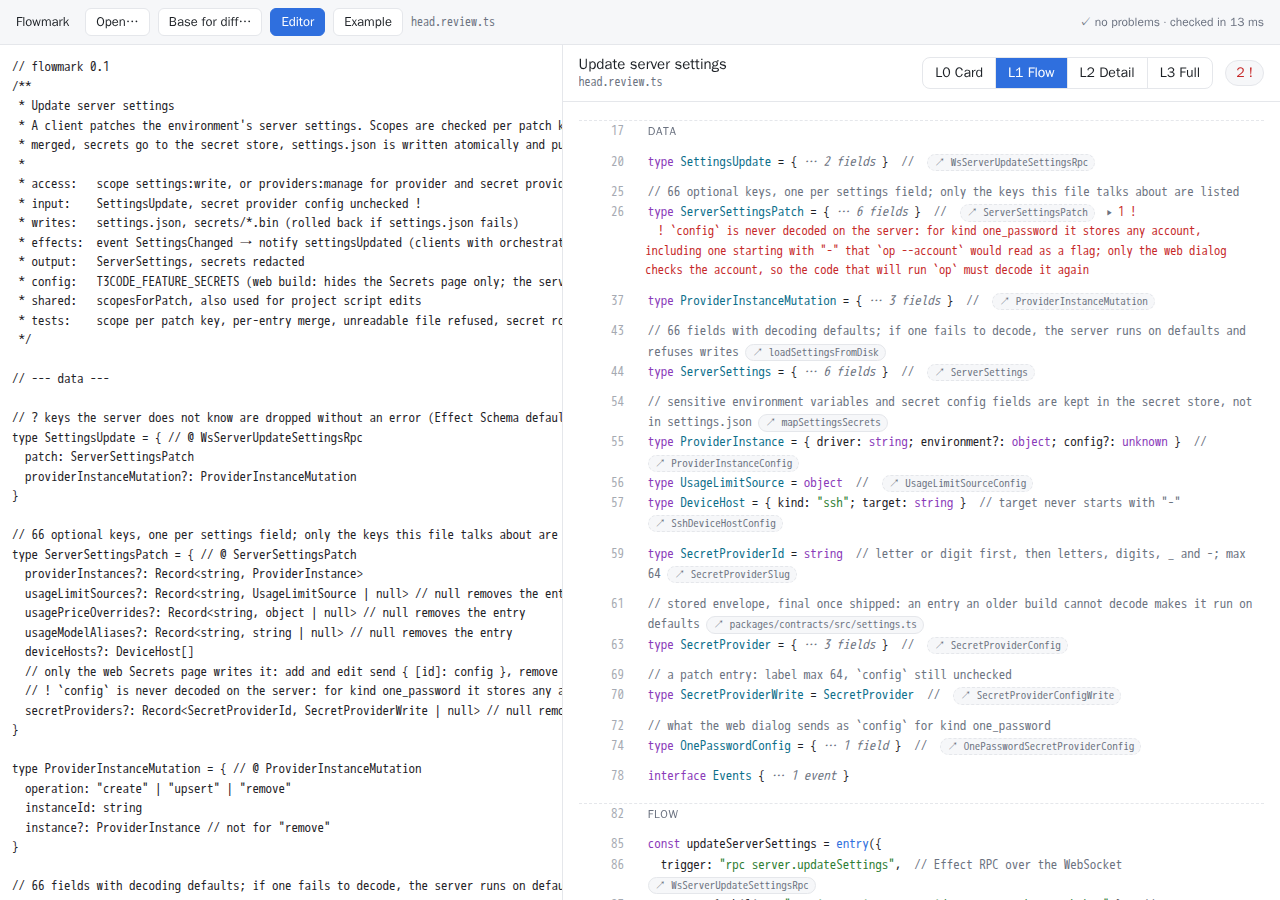
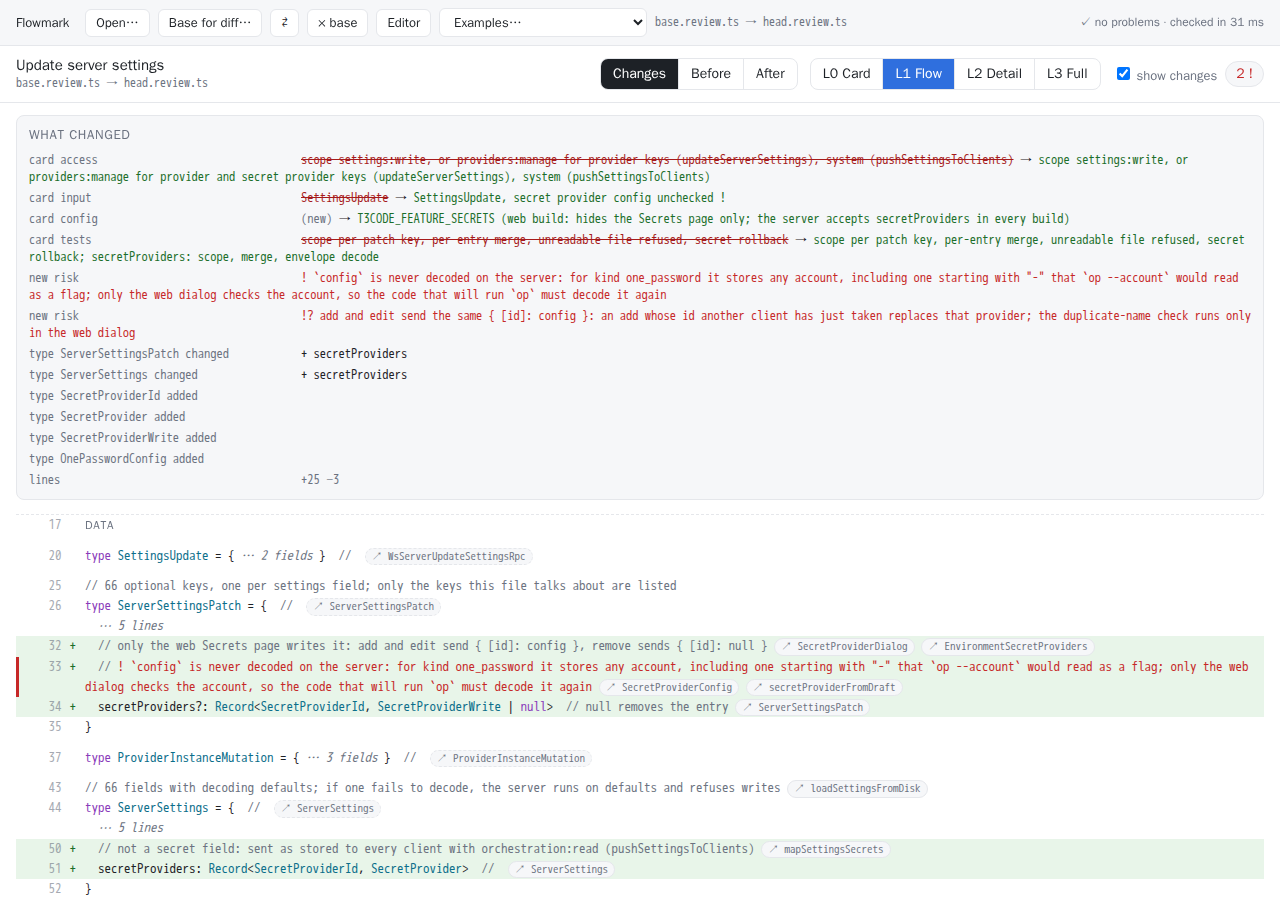
Diff pages switch between Changes, Before and After; web app examples menu
- view model: a diff carries both files on their own (`sides`)
- viewer: Changes | Before | After in the header (keys d, b, a); the
  level is kept when switching
- web app: an Examples menu (spec example, t3code PR #25709 as a diff);
  build copies the examples into web/dist
- README and screenshots updated

diff --git a/viewer/viewer.js b/viewer/viewer.js
@@ -34,10 +34,19 @@
   class Viewer {
     constructor(root, model, opts) {
       this.root = root;
-      this.m = model;
-      this.diff = !!model.changes;
+      // A diff model carries both files ("sides"): the viewer can switch between the three views.
+      this.bundle = model.sides ? model : null;
+      this.mode = "changes";
       const fromHash = /^#L([0-3])$/.exec(global.location ? global.location.hash : "");
       this.level = fromHash ? Number(fromHash[1]) : opts.level ?? 1;
+      this.load(model);
+      this.onKey = (e) => this.key(e);
+      document.addEventListener("keydown", this.onKey);
+    }
+
+    load(model) {
+      this.m = model;
+      this.diff = !!model.changes;
       this.expanded = new Set();
       this.inline = new Set();
       this.showChanges = this.diff;
@@ -54,8 +63,14 @@
         for (let i = b.first_row; i <= b.last_row; i++) if (model.rows[i].change && model.rows[i].kind !== "blank") n++;
         return n;
       });
-      this.onKey = (e) => this.key(e);
-      document.addEventListener("keydown", this.onKey);
+    }
+
+    /// "changes" (the diff), "before" (base file) or "after" (head file).
+    setMode(mode) {
+      if (!this.bundle || mode === this.mode) return;
+      this.mode = mode;
+      this.load(mode === "changes" ? this.bundle : mode === "before" ? this.bundle.sides.base : this.bundle.sides.head);
+      this.render();
     }
 
     destroy() {
@@ -69,6 +84,8 @@
       else if (e.key === "c" && this.diff) {
         this.showChanges = !this.showChanges;
         this.render();
+      } else if (this.bundle && (e.key === "d" || e.key === "b" || e.key === "a")) {
+        this.setMode({ d: "changes", b: "before", a: "after" }[e.key]);
       } else if (e.key === "Escape") {
         this.expanded.clear();
         this.inline.clear();
@@ -157,6 +174,22 @@
           h("strong", {}, m.title || m.file),
           h("span", { class: "fm-file" }, m.base_file ? `${m.base_file} → ${m.file}` : m.file),
         ),
+        this.bundle &&
+          h(
+            "nav",
+            { class: "fm-levels fm-modes", "aria-label": "Diff" },
+            [
+              ["changes", "Changes", "The pull request: what changed, then the file with added and removed lines (key d)"],
+              ["before", "Before", "The file before the change (key b)"],
+              ["after", "After", "The file after the change (key a)"],
+            ].map(([mode, label, title]) =>
+              h(
+                "button",
+                { class: mode === this.mode ? "active" : "", title, onclick: () => this.setMode(mode) },
+                label,
+              ),
+            ),
+          ),
         h(
           "nav",
           { class: "fm-levels", "aria-label": "Detail level" },

diff --git a/web/app.js b/web/app.js
@@ -1,6 +1,10 @@
 // The Flowmark web app: parse and check in WebAssembly, render with viewer.js.
 //
-//   FlowmarkApp.start({ wasm: "flowmark.wasm", example: "example.review.ts" })
+//   FlowmarkApp.start({
+//     wasm: "flowmark.wasm",
+//     examples: [{ label: "Register user", src: "examples/register-user.review.ts" },
+//                { label: "A PR (diff)", src: "head.review.ts", base: "base.review.ts" }],
+//   })
 //
 // URL parameters: ?src=<url of a .review.ts> &base=<url of the base version> &level=<0-3>
 (function (global) {
@@ -19,6 +23,7 @@
 
     async start(opts) {
       this.opts = opts || {};
+      this.examples = this.opts.examples || (this.opts.example ? [{ label: "Example", src: this.opts.example }] : []);
       const q = new URLSearchParams(global.location.search);
       if (q.has("level")) this.level = Math.max(0, Math.min(3, Number(q.get("level")) || 0));
       this.bind();
@@ -33,7 +38,8 @@
           if (q.has("base")) this.base = await fetchText(q.get("base"));
         } else {
           const saved = global.localStorage && global.localStorage.getItem(STORE);
-          this.head = saved ? JSON.parse(saved) : this.opts.example ? await fetchText(this.opts.example) : null;
+          if (saved) this.head = JSON.parse(saved);
+          else if (this.examples.length) await this.loadExample(this.examples[0]);
         }
       } catch (e) {
         this.status(e.message, true);
@@ -72,11 +78,14 @@
         clearTimeout(this.timer);
         this.timer = setTimeout(() => this.render(), 200);
       });
-      $("example").addEventListener("click", async () => {
-        if (!this.opts.example) return;
+      const menu = $("example");
+      this.examples.forEach((ex, i) => menu.append(new Option(ex.label, String(i))));
+      menu.addEventListener("change", async () => {
+        const ex = this.examples[Number(menu.value)];
+        menu.value = "";
+        if (!ex) return;
         try {
-          this.head = await fetchText(this.opts.example);
-          this.base = null;
+          await this.loadExample(ex);
           this.render(true);
         } catch (e) {
           this.status(e.message, true);
@@ -107,6 +116,11 @@
         }
         this.render(true);
       });
+    },
+
+    async loadExample(ex) {
+      this.head = await fetchText(ex.src);
+      this.base = ex.base ? await fetchText(ex.base) : null;
     },
 
     async render(syncEditor) {

diff --git a/web/index.html b/web/index.html
@@ -13,7 +13,7 @@
     border-bottom: 1px solid var(--line); background: var(--bg-soft); font-size: 13px;
   }
   .app-bar .brand { font-weight: 700; margin-right: 8px; }
-  .app-bar .btn, .app-bar button {
+  .app-bar .btn, .app-bar button, .app-bar select {
     border: 1px solid var(--line); background: var(--bg); color: var(--fg); border-radius: 6px;
     padding: 4px 10px; cursor: pointer; font: inherit;
   }
@@ -46,7 +46,7 @@
   <button id="swap" hidden title="Swap base and head">⇄</button>
   <button id="clear-base" hidden title="Stop comparing">× base</button>
   <button id="toggle-editor" title="Edit the file; the view updates as you type">Editor</button>
-  <button id="example" title="Load the example from the spec">Example</button>
+  <select id="example" title="Load an example"><option value="">Examples…</option></select>
   <span class="files" id="files"></span>
   <span id="status">loading…</span>
 </div>
@@ -58,6 +58,18 @@
 <script src="viewer.js"></script>
 <script src="flowmark-wasm.js"></script>
 <script src="app.js"></script>
-<script>FlowmarkApp.start({ wasm: "flowmark.wasm", example: "example.review.ts" });</script>
+<script>
+FlowmarkApp.start({
+  wasm: "flowmark.wasm",
+  examples: [
+    { label: "Register user (spec example)", src: "examples/register-user.review.ts" },
+    {
+      label: "t3code PR #25709 (diff)",
+      src: "examples/t3code-pr-25709/head.review.ts",
+      base: "examples/t3code-pr-25709/base.review.ts",
+    },
+  ],
+});
+</script>
 </body>
 </html>

diff --git a/viewer/viewer.css b/viewer/viewer.css
@@ -77,6 +77,7 @@
 .fm-levels button { border: 0; background: transparent; color: var(--fg); padding: 6px 12px; border-right: 1px solid var(--line); }
 .fm-levels button:last-child { border-right: 0; }
 .fm-levels button.active { background: var(--accent); color: #fff; }
+.fm-modes button.active { background: var(--fg); color: var(--bg); }
 .fm-counts { display: flex; gap: 8px; align-items: center; }
 .fm-count { border: 1px solid var(--line); background: var(--bg-soft); color: var(--fg); border-radius: 999px; padding: 3px 10px; }
 .fm-count.risk { color: var(--risk); }

diff --git a/crates/flowmark_parser/src/viewmodel.rs b/crates/flowmark_parser/src/viewmodel.rs
@@ -32,6 +32,16 @@ pub struct ViewModel {
     pub risks: Vec<RiskItem>,
     pub diagnostics: Vec<DiagItem>,
     pub changes: Option<Changes>,
+    /// Diff mode only: the base and head files on their own, so a viewer can switch between
+    /// "Changes", "Before" and "After".
+    #[serde(skip_serializing_if = "Option::is_none")]
+    pub sides: Option<Box<Sides>>,
+}
+
+#[derive(Debug, Clone, Serialize)]
+pub struct Sides {
+    pub base: ViewModel,
+    pub head: ViewModel,
 }
 
 #[derive(Debug, Clone, Copy, PartialEq, Eq, Serialize)]
@@ -271,6 +281,10 @@ pub fn build_diff(
         Some(changes),
     );
     model.base_file = Some(base_file.to_string());
+    model.sides = Some(Box::new(Sides {
+        base: build(base, base_source, base_file),
+        head: build(head, head_source, head_file),
+    }));
 
     // Risks that only exist in the base file.
     let head_risks: HashSet<String> = head.risks.iter().map(risk_key).collect();
@@ -492,6 +506,7 @@ fn assemble(
         risks,
         diagnostics,
         changes,
+        sides: None,
     }
 }
 
@@ -1077,5 +1092,9 @@ mod tests {
                 .contains(&"calls Stripe.createCustomer".to_string())
         );
         assert!(m.risks.iter().any(|r| r.change == Some(Change::Added)));
+        let sides = m.sides.as_ref().unwrap();
+        assert!(sides.base.changes.is_none() && sides.head.changes.is_none());
+        assert_eq!(sides.base.rows.len(), EXAMPLE.lines().count());
+        assert_eq!(sides.head.rows.len(), head.lines().count());
     }
 }

diff --git a/README.md b/README.md
@@ -25,11 +25,12 @@ At L1 (flow): hidden blocks collapse, their risks stay visible, calls to hidden 
 
 ![t3code example, L1](docs/screenshots/t3code-L1-flow.png)
 
-The PR as a diff (`flowmark html base.review.ts head.review.ts`): what changed first, then the changed lines:
+The PR as a diff (`flowmark html base.review.ts head.review.ts`): **Changes | Before | After** in the header,
+what changed first, then the changed lines:
 
 ![t3code example, diff](docs/screenshots/t3code-diff.png)
 
-The web app (WebAssembly in the browser) with the editor open:
+The web app (WebAssembly in the browser) with the t3code PR from its **Examples** menu:
 
 ![web app](docs/screenshots/web-app.png)
 
@@ -56,7 +57,7 @@ flowmark=./target/release/flowmark
 $flowmark check examples/register-user.review.ts           # diagnostics, exit code 1 on errors
 $flowmark view  examples/register-user.review.ts --level 1 # text view, levels 0-3
 $flowmark html  examples/register-user.review.ts -o out.html          # interactive viewer, one file
-$flowmark html  base.review.ts head.review.ts -o diff.html            # diff mode
+$flowmark html  base.review.ts head.review.ts -o pr.html              # diff: Changes | Before | After
 $flowmark parse examples/register-user.review.ts           # document as JSON
 $flowmark model examples/register-user.review.ts           # view model JSON (what the viewer renders)
 ```
@@ -72,9 +73,10 @@ offline and can be attached to a pull request.
 - **Helpers** hidden at the current level show their effects at the call site and can be expanded in place.
 - **Refs** are chips with target, quote and scope; click to copy.
 - **Prelude calls** are coloured by category (access, input, read, write, effect, output, ...).
-- **Diff mode** (two files): a "What changed" summary first (card fields, risks, entries, types — SPEC §11.5),
-  then the file with added and removed lines. "Show changes" (key `c`) shows changed lines at every level;
-  collapsed blocks show `Δn` for the changes inside. `Esc` collapses everything again.
+- **Diff mode** (two files): **Changes | Before | After** in the header (keys `d`, `b`, `a`). Changes shows a
+  "What changed" summary first (card fields, risks, entries, types — SPEC §11.5), then the file with added and
+  removed lines; Before and After show each file on its own. "Show changes" (key `c`) shows changed lines at
+  every level; collapsed blocks show `Δn` for the changes inside. `Esc` collapses everything again.
 
 ## Web app (WebAssembly)
 
@@ -83,8 +85,9 @@ offline and can be attached to a pull request.
 python3 -m http.server -d web/dist 8080   # any static server; file:// cannot load .wasm
 ```
 
-Open `http://localhost:8080`, then open or drop a `.review.ts` file (two files = base and head),
-or edit it in the built-in editor: it is re-checked and re-rendered as you type. Nothing leaves the browser.
+Open `http://localhost:8080`, then pick an example from **Examples…** (the t3code PR opens as a diff),
+open or drop a `.review.ts` file (two files = base and head), or edit it in the built-in editor:
+it is re-checked and re-rendered as you type. Nothing leaves the browser.
 
 URL parameters: `?src=<url>` loads a file, `&base=<url>` compares against a base version, `&level=0..3`.
 Raw GitHub URLs work, so a pull request can link straight to its review file.
